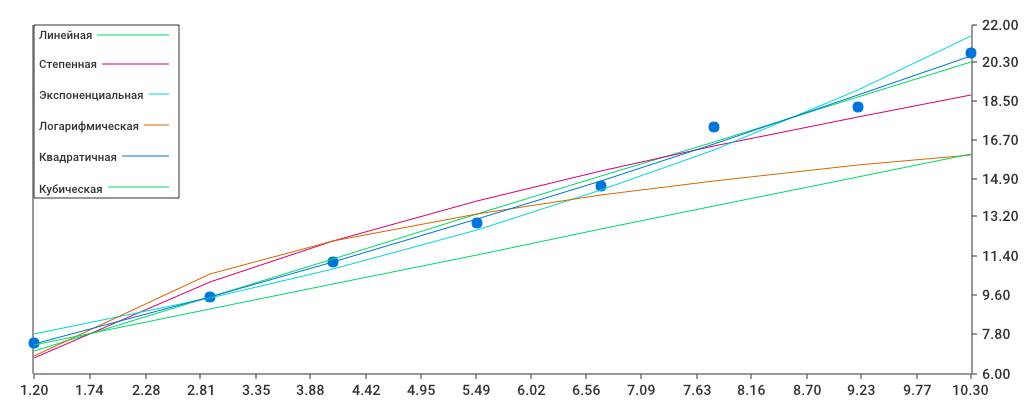
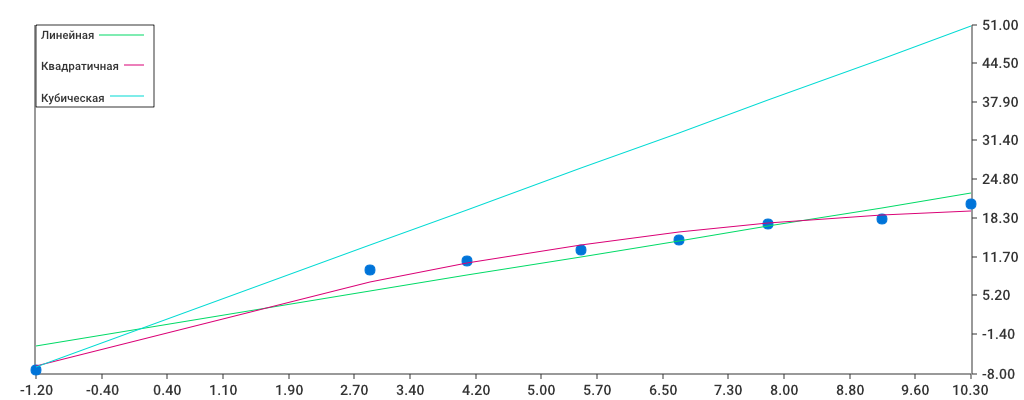
improved input

diff --git a/main.go b/main.go
@@ -15,6 +15,9 @@ func main() {
 		if dataX[i] <= 0 {
 			isPositive = false
 		}
+		if dataY[i] <= 0 {
+			isPositive = false
+		}
 		break
 	}
 	_, whereToWrite := output()
@@ -158,14 +161,12 @@ func smallOutput(n int, dataX, dataY []float64, whereToWrite *os.File) {
 	pearsonCoeff, linearApproximation := linealApprox(n, dataX, dataY)
 	quadraticApproximation := quadraticApprox(n, dataX, dataY)
 	cubeApproximation := cubeApprox(n, dataX, dataY)
-	expApproximation := expApprox(n, dataX, dataY)
 	fmt.Fprintln(whereToWrite, CANT_OUTPUT)
 
 	allApproxs := []Data{
 		linearApproximation,
 		quadraticApproximation,
 		cubeApproximation,
-		expApproximation,
 	}
 
 	bestApprox := allApproxs[0]
@@ -253,11 +254,6 @@ func smallOutput(n int, dataX, dataY []float64, whereToWrite *os.File) {
 				Name:    CUBIC,
 				XValues: allApproxs[2].xData,
 				YValues: allApproxs[2].phi,
-			},
-			chart.ContinuousSeries{
-				Name:    EXP,
-				XValues: allApproxs[3].xData,
-				YValues: allApproxs[3].phi,
 			},
 		},
 	}

diff --git a/utils.go b/utils.go
@@ -2,7 +2,7 @@ package main
 
 const (
 	INFO = "\n***\nСухарева Софья \nP32131, ИСУ:334641" +
-		"\nАППРОКСИМАЦИЯ ФУНКЦИИ МЕТОДОМ\nНАИМЕНЬШИХ КВАДРАТОВ***\n"
+		"\nАППРОКСИМАЦИЯ ФУНКЦИИ МЕТОДОМ\nНАИМЕНЬШИХ КВАДРАТОВ\n***\n"
 	CHOOSE_INPUT = "Выберите способ ввода: \"F\" (файл) или \"T\" (терминал)." +
 		"\nF/T: "
 	NUMBER_OF_DOTS = "Количество точек должно быть целым числом в пределах [7, 12]." +
@@ -20,7 +20,7 @@ const (
 	EXP         = "Экспоненциальная"
 	LOG         = "Логарифмическая"
 	POWER       = "Степенная"
-	CANT_OUTPUT = "Невозможно вычислить логарифмическую и степенную функции\n"
+	CANT_OUTPUT = "Невозможно вычислить некоторые функции\n"
 )
 
 type Data struct {

diff --git a/linearApprox.go b/linearApprox.go
@@ -13,7 +13,6 @@ func linealApprox(n int, dataX, dataY []float64) (float64, Data) {
 
 	answKramer := GetKramer([][]float64{{sxx, sx}, {sx, float64(n)}}, []float64{sxy, sy})
 
-	//a & b are coefficents of the y=ax+b
 	a, b := answKramer[0], answKramer[1]
 	coefficents := []float64{a, b}
 	f := func(element float64) float64 { return a*element + b }
